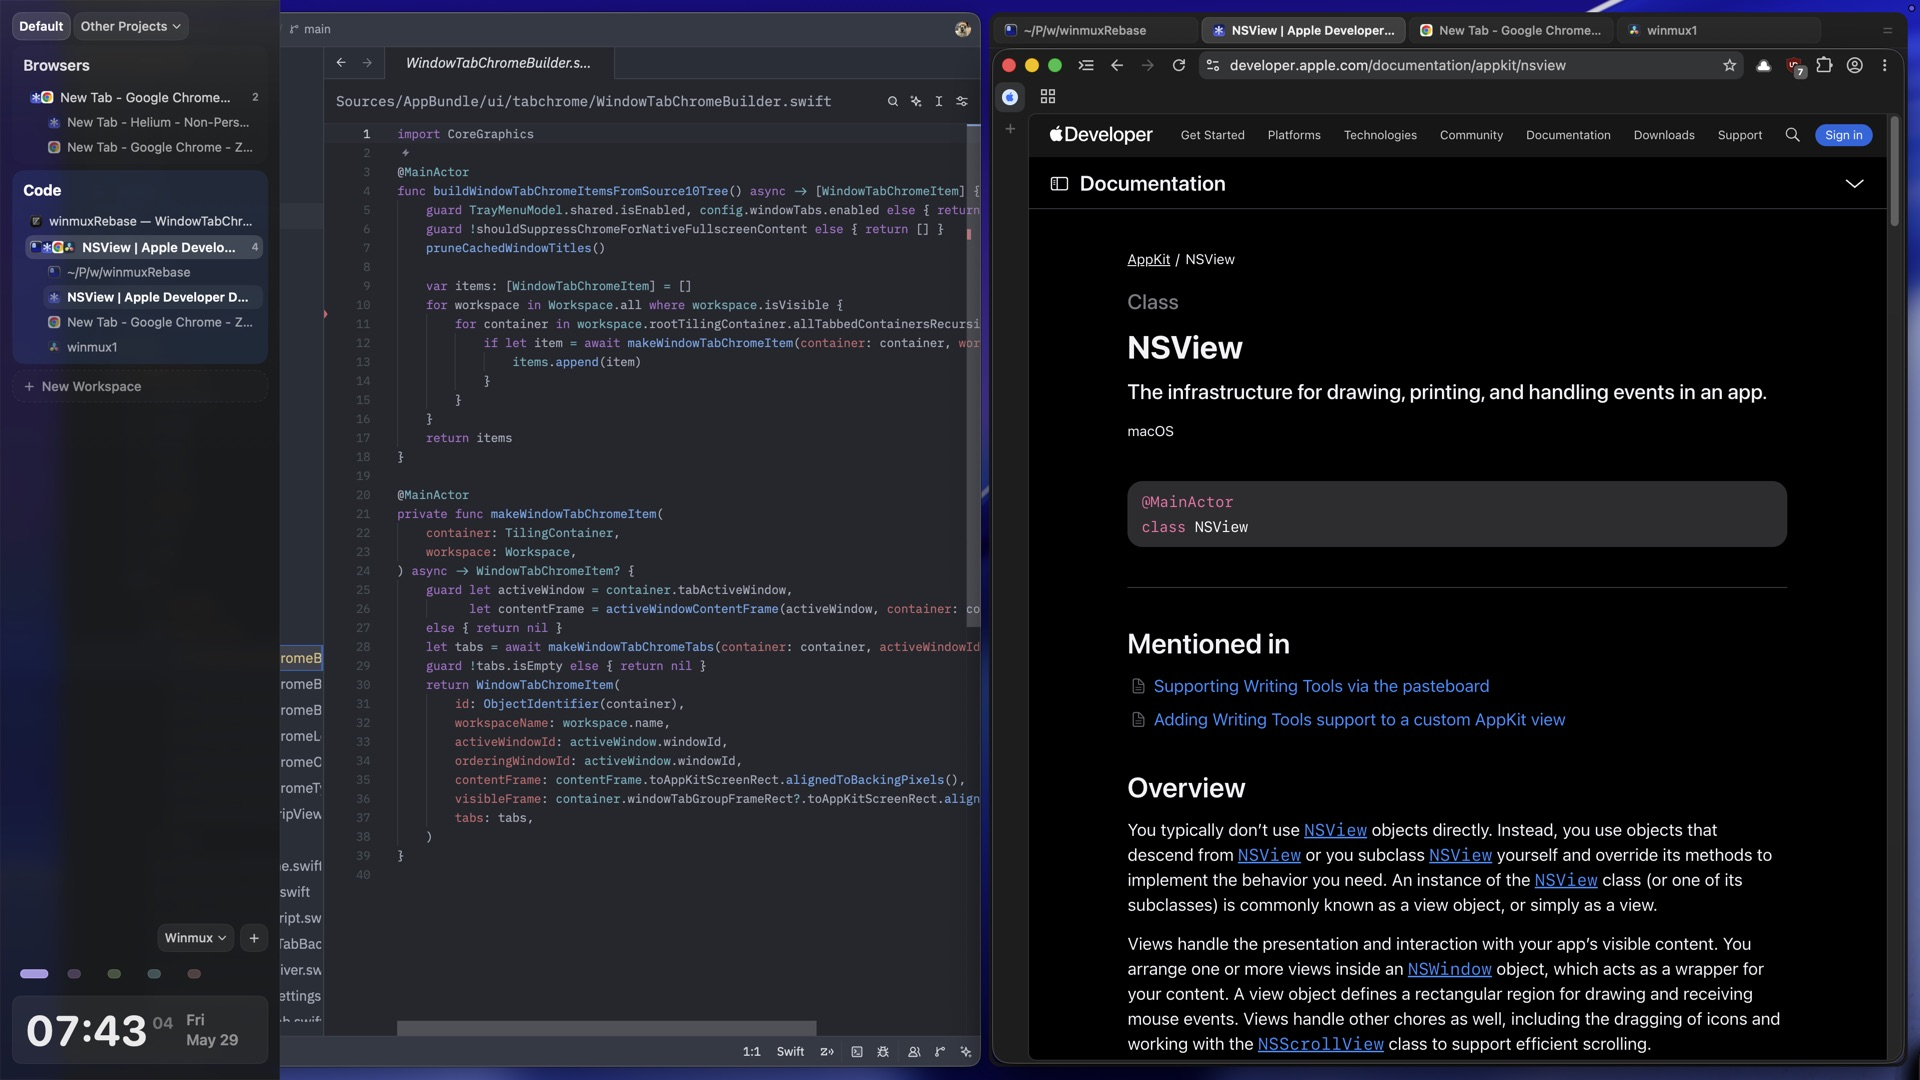
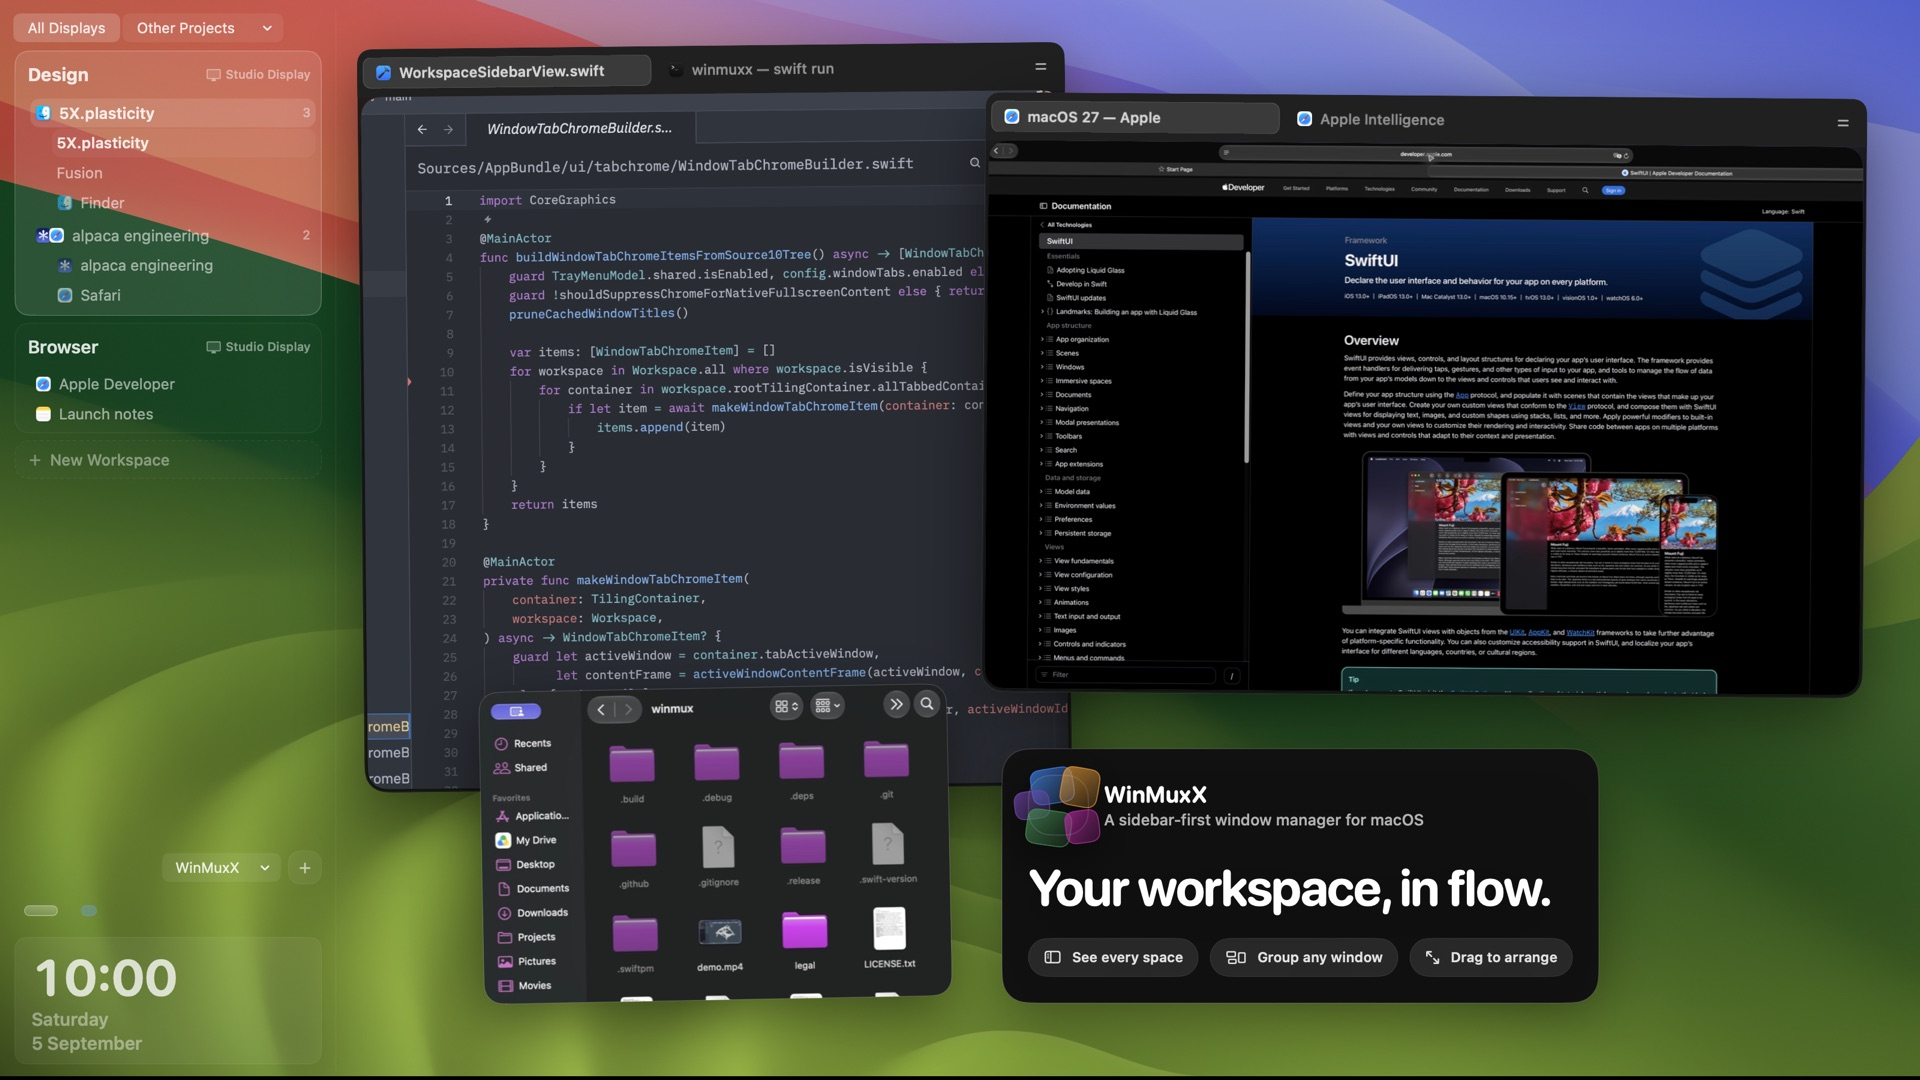
README: show the overview picture under the demo video
Re-render the site hero from the marketing renderer (current sidebar and tab
strip) and use the same file in the README.

diff --git a/README.md b/README.md
@@ -16,6 +16,10 @@
 
 https://github.com/user-attachments/assets/51983568-a168-494f-8ae3-5f50ca1efce1
 
+<p align="center">
+  <img src="site/assets/overview.jpg" width="900" alt="WinMuxX sidebar with projects and workspaces beside tiled, tabbed windows">
+</p>
+
 WinMuxX tiles your windows, groups them into projects and workspaces, and keeps
 them one glance away in a sidebar. It is a personal fork by gfavaro, based on
 [ZimengXiong/WinMux](https://github.com/ZimengXiong/WinMux). It is not a
